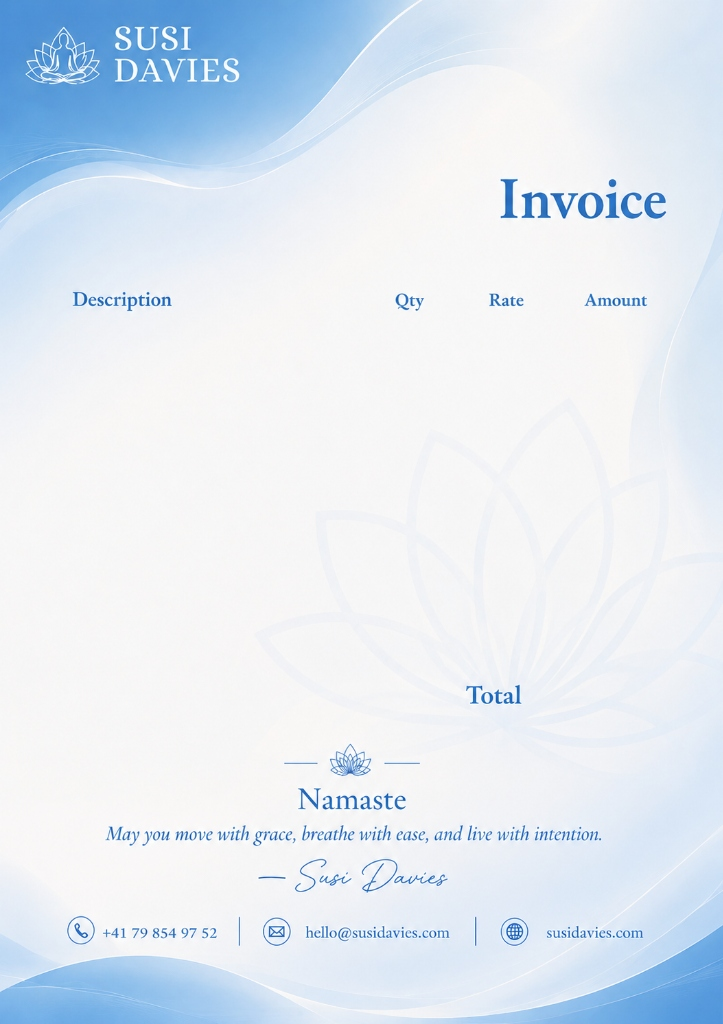
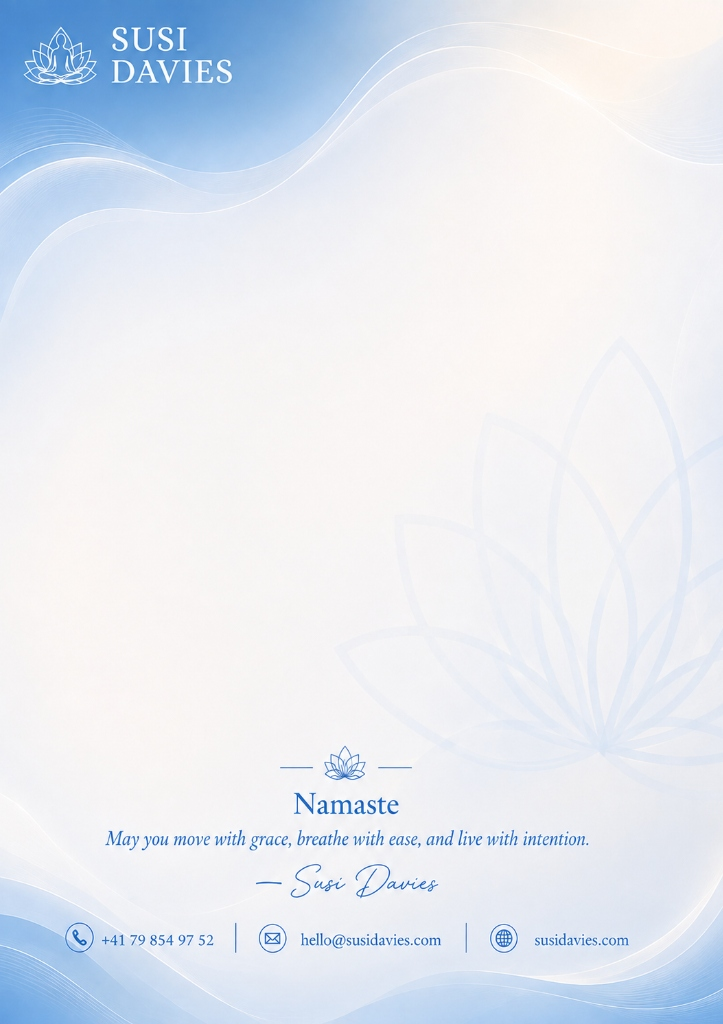
Fix invoice letterhead background with clean stationary graphic and precise typographic overlay

diff --git a/src/components/invoice-template.tsx b/src/components/invoice-template.tsx
@@ -49,28 +49,41 @@ export function SusiInvoiceTemplate({ data }: { data: InvoiceData }) {
           display: flex;
           flex-direction: column;
           justify-content: space-between;
-          padding-bottom: 90px;
+          padding-bottom: 180px; /* Protect bottom Namaste signature footer */
         }
 
-        /* Top Header Overlay spacing */
+        /* Top Right "Invoice" Title printed on top ocean wave background */
+        .inv-top-title-heading {
+          position: absolute;
+          top: 75px;
+          right: 55px;
+          font-family: 'Crimson Pro', Georgia, serif;
+          font-size: 46px;
+          font-weight: 700;
+          color: #1f78b4;
+          letter-spacing: 0.02em;
+          z-index: 5;
+        }
+
+        /* Top Header Spacer */
         .inv-top-spacer {
-          height: 180px;
+          height: 155px;
         }
 
-        /* Main Body Content */
+        /* Main Content Body */
         .inv-content-body {
-          padding: 0 50px 20px;
+          padding: 0 55px;
           position: relative;
           z-index: 2;
           flex: 1;
         }
 
-        /* Bill To & Metadata Grid */
+        /* Bill To & Details Grid */
         .inv-meta-grid {
           display: grid;
           grid-template-columns: 1fr 1fr;
           gap: 30px;
-          margin-bottom: 25px;
+          margin-bottom: 30px;
         }
         .inv-bill-to-label {
           font-family: 'Open Sans', sans-serif;
@@ -83,9 +96,10 @@ export function SusiInvoiceTemplate({ data }: { data: InvoiceData }) {
         }
         .inv-client-name {
           font-family: 'Crimson Pro', serif;
-          font-size: 22px;
+          font-size: 24px;
           font-weight: 700;
           color: #1f78b4;
+          line-height: 1.2;
         }
 
         .inv-details-table {
@@ -108,50 +122,18 @@ export function SusiInvoiceTemplate({ data }: { data: InvoiceData }) {
           color: #1f78b4;
         }
 
-        /* Payment Box */
-        .inv-payment-box {
-          background: rgba(238, 248, 252, 0.85);
-          backdrop-filter: blur(4px);
-          border: 1px solid #BCD4E3;
-          border-radius: 12px;
-          padding: 14px 18px;
-          margin: 0 0 25px auto;
-          max-width: 360px;
-          font-family: 'Open Sans', sans-serif;
-          font-size: 13px;
-          color: #2c424d;
-        }
-        .inv-payment-box .pay-lbl {
-          font-size: 10px;
-          font-weight: 700;
-          letter-spacing: 0.16em;
-          color: #1f78b4;
-          text-transform: uppercase;
-          margin-bottom: 4px;
-        }
-        .inv-payment-box .pay-notice {
-          font-family: 'Crimson Pro', serif;
-          font-size: 15px;
-          font-weight: 700;
-          color: #1c313a;
-          margin-bottom: 3px;
-        }
-        .inv-payment-box .pay-details {
-          font-size: 12px;
-          color: #556b73;
-        }
-
-        /* Items Table */
+        /* Line Items Table */
         .inv-table-items {
           width: 100%;
           border-collapse: collapse;
+          margin-top: 15px;
           margin-bottom: 25px;
         }
         .inv-table-items th {
           background-color: transparent;
           color: #1f78b4;
           font-family: 'Crimson Pro', serif;
-          font-size: 20px;
+          font-size: 22px;
           font-weight: 700;
           padding: 10px 16px;
           border-bottom: 2px solid #1f78b4;
@@ -162,8 +144,8 @@ export function SusiInvoiceTemplate({ data }: { data: InvoiceData }) {
         .inv-table-items th.th-amt { text-align: right; width: 130px; }
 
         .inv-table-items td {
-          padding: 12px 16px;
-          font-size: 15px;
+          padding: 14px 16px;
+          font-size: 16px;
           border-bottom: 1px dashed rgba(31, 120, 180, 0.25);
         }
         .inv-table-items td.td-desc {
@@ -174,7 +156,7 @@ export function SusiInvoiceTemplate({ data }: { data: InvoiceData }) {
         }
         .inv-table-items td.td-qty { text-align: center; color: #1f78b4; font-weight: 700; }
         .inv-table-items td.td-rate { text-align: right; color: #1f78b4; }
-        .inv-table-items td.td-amt { text-align: right; font-weight: 700; color: #1f78b4; font-size: 16px; }
+        .inv-table-items td.td-amt { text-align: right; font-weight: 700; color: #1f78b4; font-size: 17px; }
 
         /* Totals Block */
         .inv-totals-box {
@@ -182,6 +164,7 @@ export function SusiInvoiceTemplate({ data }: { data: InvoiceData }) {
           width: 320px;
           text-align: right;
           font-size: 16px;
+          margin-top: 20px;
         }
         .inv-totals-row {
           display: flex;
@@ -193,7 +176,7 @@ export function SusiInvoiceTemplate({ data }: { data: InvoiceData }) {
           border-top: 2px solid #1f78b4;
           margin-top: 6px;
           padding-top: 10px;
-          font-size: 26px;
+          font-size: 28px;
           font-weight: 700;
           color: #1f78b4;
         }
@@ -218,17 +201,20 @@ export function SusiInvoiceTemplate({ data }: { data: InvoiceData }) {
         }
       `}</style>
 
-      {/* Top Header Spacer (Matches background wave & logo) */}
+      {/* Top Right "Invoice" Heading */}
+      <div className="inv-top-title-heading">Invoice</div>
+
+      {/* Top Header Spacer */}
       <div className="inv-top-spacer" />
 
-      {/* Main Body Content */}
+      {/* Main Content Body */}
       <div className="inv-content-body">
-        {/* Bill To & Metadata */}
+        {/* Bill To & Metadata Grid */}
         <div className="inv-meta-grid">
           <div>
             <div className="inv-bill-to-label">BILL TO</div>
             <div className="inv-client-name">{data.clientName || "Valued Client"}</div>
-            {data.clientEmail && <div style={{ fontSize: 14, color: "#556b73", marginTop: 2 }}>{data.clientEmail}</div>}
+            {data.clientEmail && <div style={{ fontSize: 14, color: "#556b73", marginTop: 4 }}>{data.clientEmail}</div>}
           </div>
 
           <div>
@@ -259,14 +245,7 @@ export function SusiInvoiceTemplate({ data }: { data: InvoiceData }) {
           </div>
         </div>
 
-        {/* Payment Notice Box */}
-        <div className="inv-payment-box">
-          <div className="pay-lbl">PAYMENT INSTRUCTIONS</div>
-          <div className="pay-notice">{data.paymentNotice || "Payment due within 14 days."}</div>
-          <div className="pay-details">{data.paymentMethod || "TWINT (+41 79 854 97 52) or Bank Transfer"}</div>
-        </div>
-
-        {/* Items Table */}
+        {/* Services & Items Table */}
         <table className="inv-table-items">
           <thead>
             <tr>
